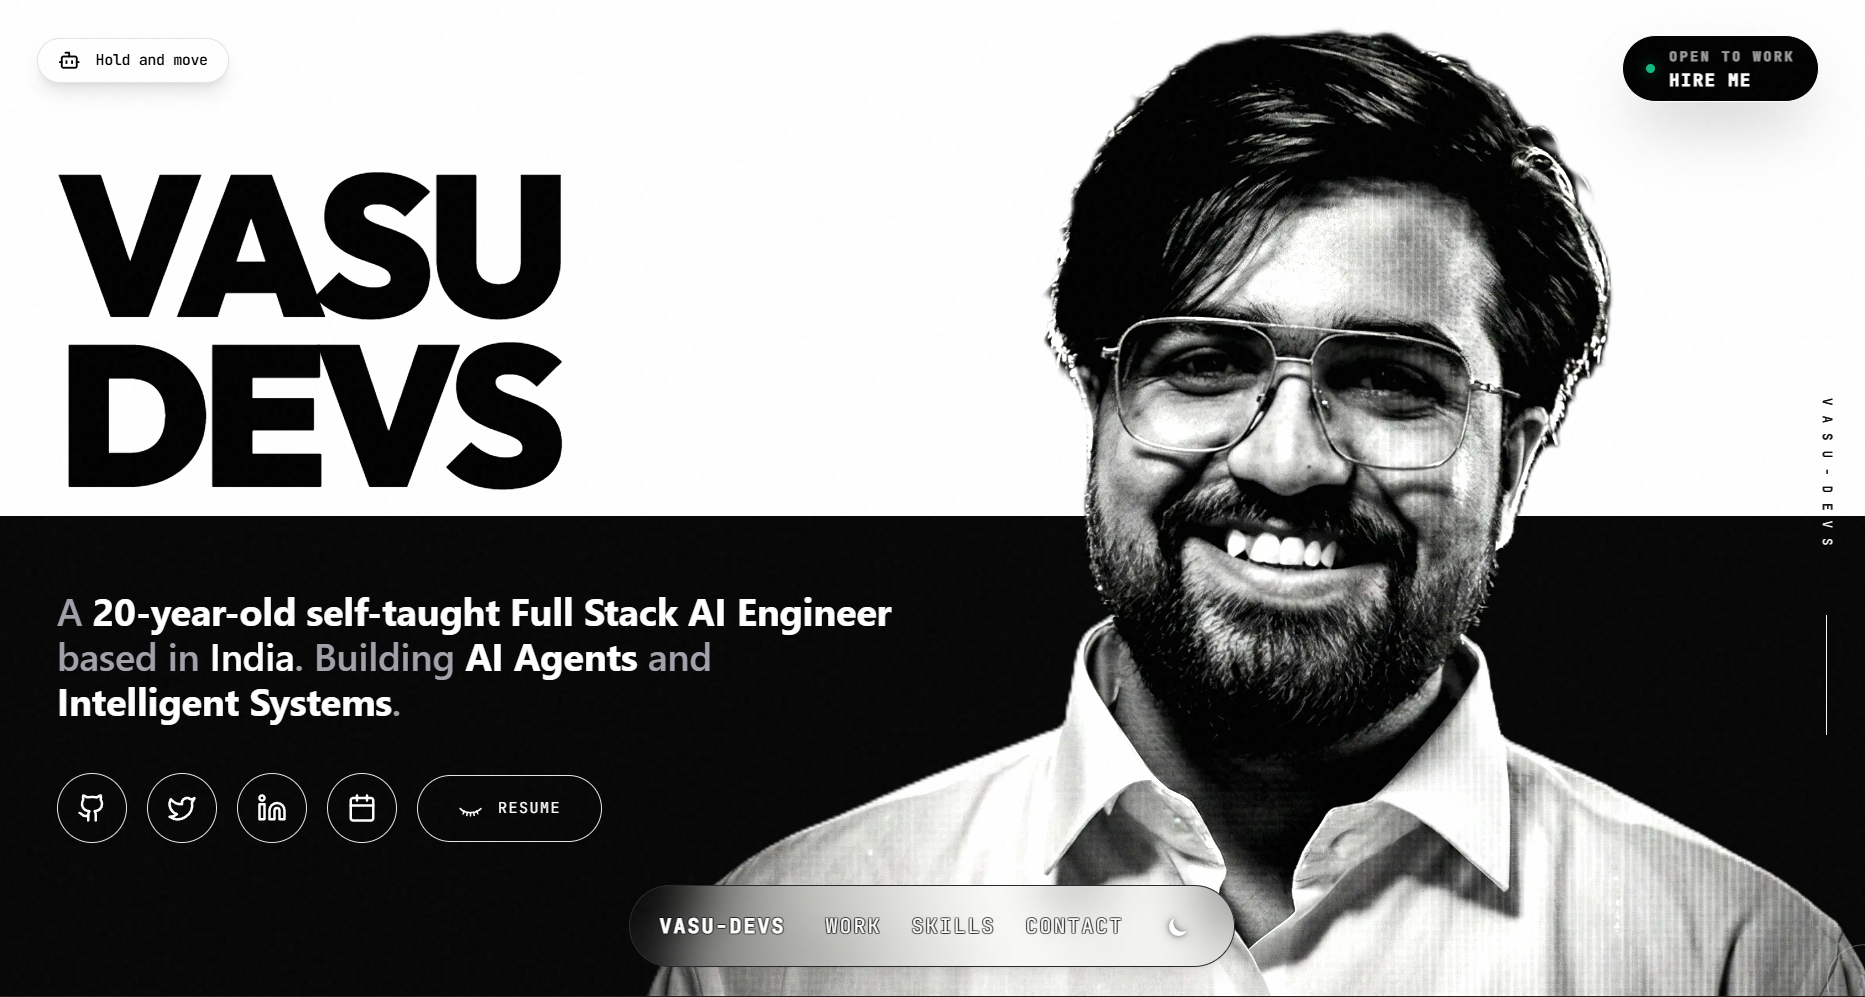
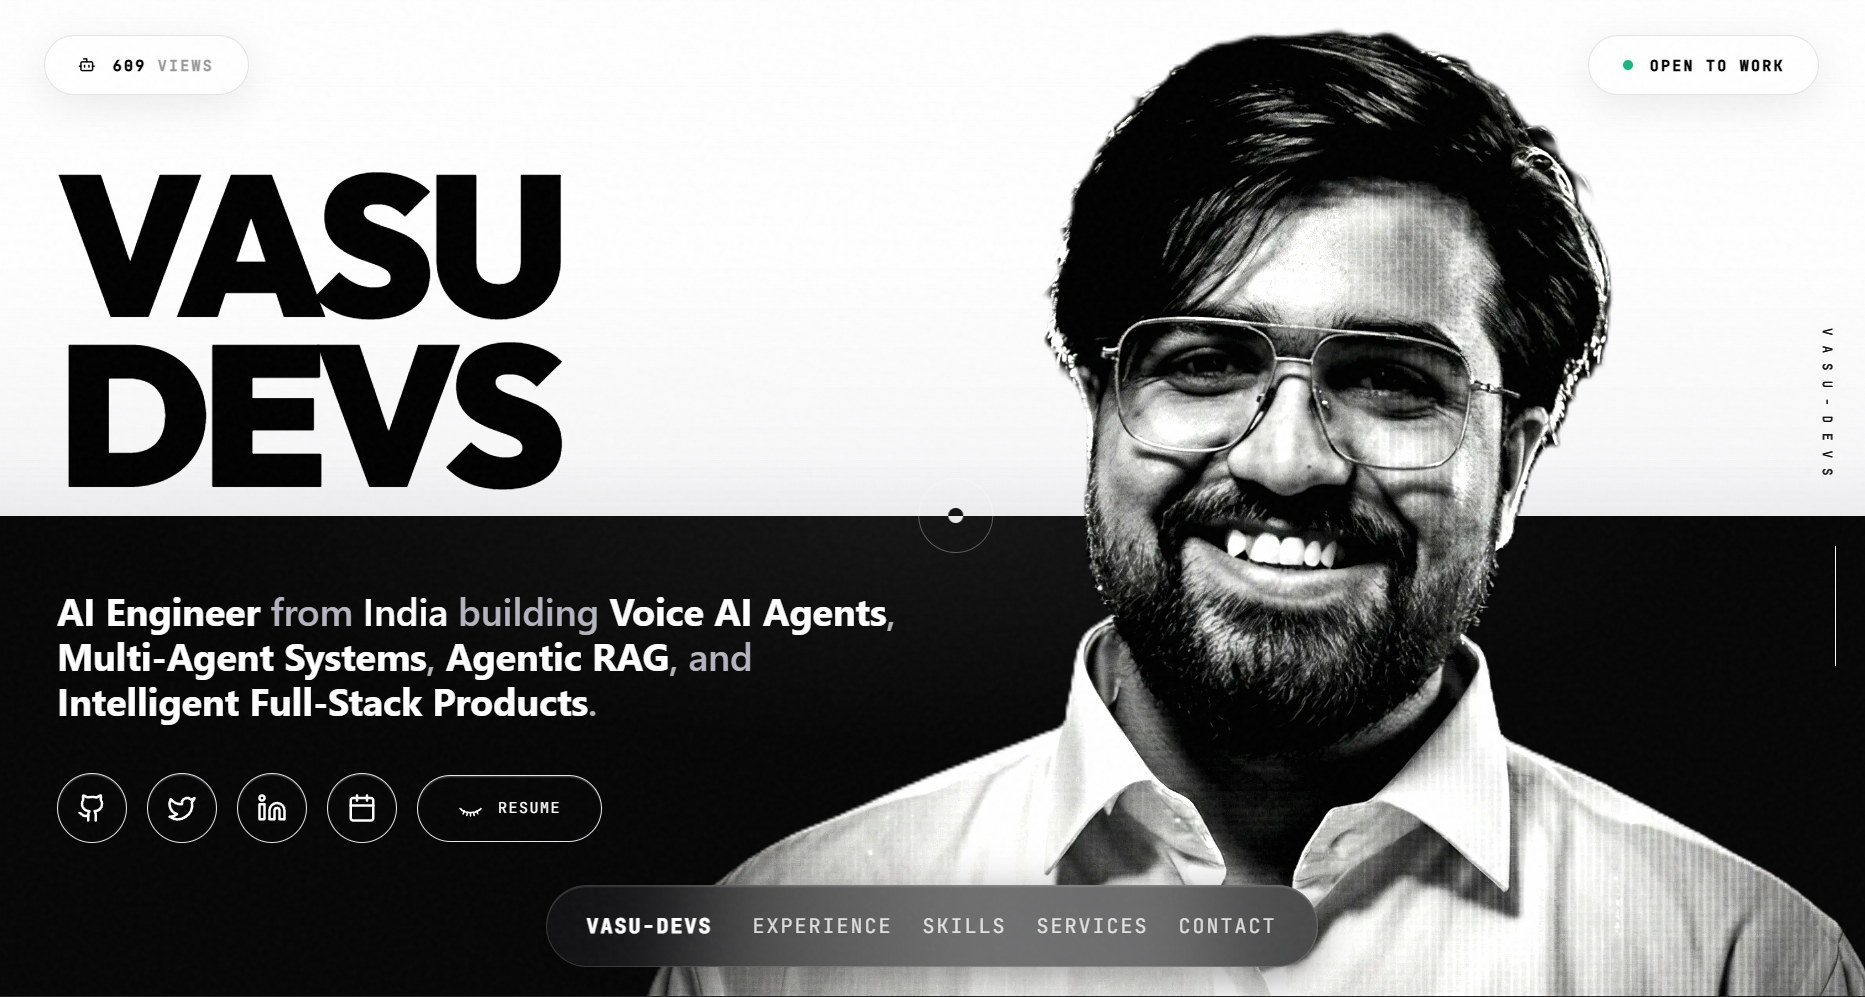
fix: update twitter meta tags and add opengraph image asset

diff --git a/index.html b/index.html
@@ -26,14 +26,14 @@
     <meta property="og:image" content="https://www.vasudev.live/og-image.png" />
 
     <!-- Twitter -->
-    <meta property="twitter:card" content="summary_large_image" />
-    <meta property="twitter:url" content="https://www.vasudev.live" />
-    <meta property="twitter:title" content="Vasudev | Full Stack Engineer & AI Developer" />
-    <meta property="twitter:description"
+    <meta name="twitter:card" content="summary_large_image" />
+    <meta name="twitter:url" content="https://www.vasudev.live" />
+    <meta name="twitter:title" content="Vasudev | Full Stack Engineer & AI Developer" />
+    <meta name="twitter:description"
         content="AI Engineer from India building Voice AI Agents, Multi-Agent Systems, Agentic RAG, and Intelligent Full-Stack Products." />
-    <meta property="twitter:image" content="https://www.vasudev.live/og-image.png" />
-    <meta property="twitter:site" content="@vasu-devs" />
-    <meta property="twitter:creator" content="@vasu-devs" />
+    <meta name="twitter:image" content="https://www.vasudev.live/og-image.png" />
+    <meta name="twitter:site" content="@vasu-devs" />
+    <meta name="twitter:creator" content="@vasu-devs" />
 </head>
 
 <body>